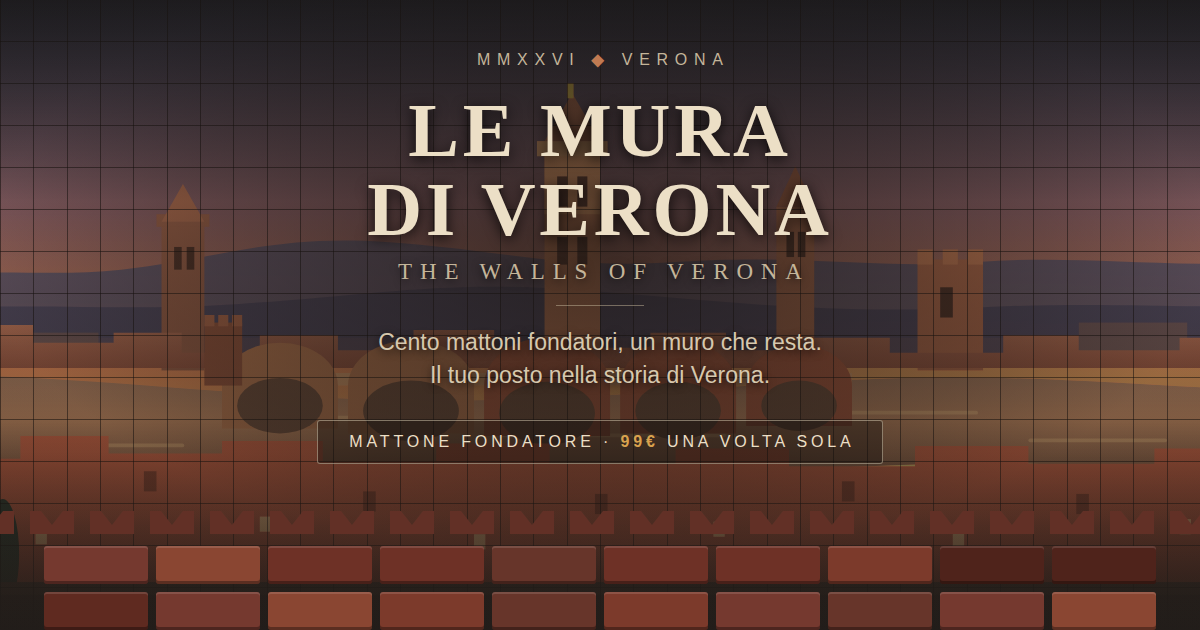
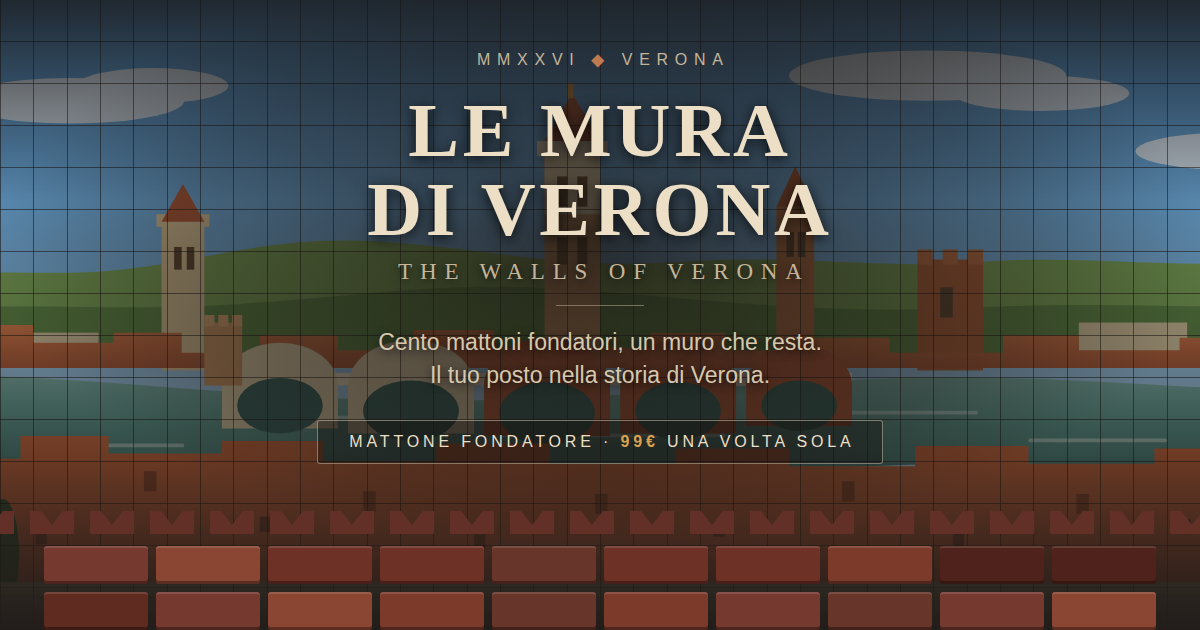
Presale: mosaico in colori diurni reali, risoluzione raddoppiata
Il panorama al tramonto rendeva il mosaico un impasto bruno in cui
Verona non si riconosceva. panorama.svg e' ridisegnato in colori veri:
cielo azzurro con nuvole, Torricelle verdi, campanili e Torre dei
Lamberti in pietra e cotto, l'Adige verde-acqua, Ponte Pietra con le
arcate chiare, tetti in cotto veronese.

- Campionamento portato da 36x15 (540 tessere) a 48x20 (960 tessere):
  la veduta si legge, 120 colori distinti contro i 33 di prima
- Filtro ridotto (la palette diurna non ha bisogno di spinta) e velo
  rinforzato al centro per la leggibilita' del testo
- og-cover.png rigenerata: ponte, torri e colline ora visibili
- README aggiornato

Verificata con Chromium: nessun errore JS, 960 tessere su desktop e
mobile, traduzioni e Fondatori intatti al cambio lingua.

Claude-Session: https://claude.ai/code/session_01KS1vJjt3JXrnw9YL9HbYTw

diff --git a/presale/index.html b/presale/index.html
@@ -79,15 +79,14 @@
   .hero{ position:relative; text-align:center; padding:0 0 34px; overflow:hidden; }
   .mosaico{ position:absolute; inset:0; z-index:0; overflow:hidden;
     background:#1a1512; pointer-events:none;
-    /* Il panorama campionato e' volutamente cupo: qui lo si riporta a
-       una luminosita' in cui Verona si riconosce sotto al velo. */
-    filter:brightness(1.5) saturate(1.2); }
+    /* Palette diurna: un filo di saturazione in piu' e basta. */
+    filter:brightness(1.04) saturate(1.12); }
   /* La griglia si comporta come un background "cover": mantiene il
      rapporto del panorama e viene ritagliata, invece di stirare i
      tasselli in rettangoli irriconoscibili sui telefoni. */
   .mosaico-grid{ position:absolute; top:50%; left:50%; transform:translate(-50%,-50%);
-    display:grid; gap:1px; width:100%; height:auto; aspect-ratio:36 / 15; }
-  @media (max-aspect-ratio: 36/15){
+    display:grid; gap:1px; width:100%; height:auto; aspect-ratio:48 / 20; }
+  @media (max-aspect-ratio: 48/20){
     .mosaico-grid{ width:auto; height:100%; }
   }
   .mosaico span{ display:block; opacity:0; animation:tessera .5s ease forwards;
@@ -98,8 +97,8 @@
   /* Velo: senza, il testo non si legge sopra il mosaico. */
   .velo{ position:absolute; inset:0; z-index:1; pointer-events:none;
     background:
-      radial-gradient(66% 56% at 50% 40%, rgba(24,19,16,.66), rgba(24,19,16,.34) 58%, rgba(24,19,16,.16) 82%),
-      linear-gradient(180deg, rgba(24,19,16,.82) 0%, rgba(24,19,16,.1) 30%, rgba(24,19,16,.34) 66%, var(--ink) 97%); }
+      radial-gradient(64% 54% at 50% 40%, rgba(24,19,16,.78), rgba(24,19,16,.44) 58%, rgba(24,19,16,.16) 84%),
+      linear-gradient(180deg, rgba(24,19,16,.72) 0%, rgba(24,19,16,.14) 30%, rgba(24,19,16,.38) 68%, var(--ink) 97%); }
   .hero-in{ position:relative; z-index:2; padding:34px 22px 0; }
   .credits{ position:absolute; z-index:2; right:10px; bottom:6px;
     font-size:9px; letter-spacing:.1em; color:rgba(236,223,198,.42); }
@@ -560,14 +559,14 @@ var MURATI = [
 
 /* ==================================================================
    IL MOSAICO — Verona vista da Castel San Pietro
-   La stringa qui sotto è il panorama campionato in 36x15 tasselli
+   La stringa qui sotto è il panorama campionato in 48x20 tasselli
    (vedi panorama.svg e tools/campiona-mosaico.mjs). Tinge il mosaico
    anche quando non c'è nemmeno una foto: la pagina non è mai vuota.
 
    Per mettere le foto vere dei quartieri, aggiungi righe a FOTO:
      { src:'foto/castelvecchio.jpg', x:6, y:8, w:3, h:2,
        credito:'Foto: Nome Cognome' }
-   x,y sono le coordinate del tassello in alto a sinistra (0-35, 0-14),
+   x,y sono le coordinate del tassello in alto a sinistra (0-47, 0-19),
    w,h quanti tasselli occupa. La foto viene virata sui toni del
    panorama, così il mosaico resta leggibile come veduta d'insieme.
 
@@ -575,8 +574,8 @@ var MURATI = [
    che ne permetta l'uso commerciale, e cita sempre l'autore. Una foto
    presa da internet costa molto più di quanto valga.
    ================================================================== */
-var MOSAICO_COLS = 36, MOSAICO_ROWS = 15;
[1 lines of base64/hex data omitted]
+var MOSAICO_COLS = 48, MOSAICO_ROWS = 20;
[1 lines of base64/hex data omitted]
 
 var FOTO = [
   // { src:'foto/ponte-pietra.jpg', x:14, y:8, w:4, h:3, credito:'Foto: Nome Cognome' },

diff --git a/presale/README.md b/presale/README.md
@@ -49,9 +49,11 @@ da sola nel selettore se aggiungi il pulsante corrispondente.
 ## Il mosaico
 
 Lo sfondo dell'intestazione è **Verona vista da Castel San Pietro**, scomposta
-in 540 tessere (36 × 15). Non serve nessuna foto perché funzioni: i colori
-sono campionati da `panorama.svg`, un'illustrazione disegnata apposta per
-questo progetto e quindi **libera da vincoli di licenza**.
+in 960 tessere (48 × 20). Non serve nessuna foto perché funzioni: i colori
+sono campionati da `panorama.svg`, un'illustrazione in colori diurni reali —
+cielo azzurro, Torricelle verdi, tetti in cotto, l'Adige verde-acqua, Ponte
+Pietra in pietra chiara — disegnata apposta per questo progetto e quindi
+**libera da vincoli di licenza**.
 
 Le tessere si compongono a onda dal centro, e la griglia si comporta come uno
 sfondo `cover`: mantiene le proporzioni del panorama e viene ritagliata,
@@ -66,7 +68,7 @@ var FOTO = [
 ];
 ```
 
-`x,y` è la tessera in alto a sinistra (0-35 e 0-14), `w,h` quante ne occupa.
+`x,y` è la tessera in alto a sinistra (0-47 e 0-19), `w,h` quante ne occupa.
 Le foto vengono virate sui toni del panorama, così il mosaico resta leggibile
 come veduta d'insieme anche quando sarà mezzo fotografico. I crediti compaiono
 da soli in basso a destra.
@@ -176,7 +178,7 @@ nessuno di essi.
 
 | Scenario | Esito |
 |---|---|
-| Italiano, 0 Fondatori | 540 tessere, 33 colori distinti, muro e contatori coerenti |
+| Italiano, 0 Fondatori | 960 tessere, 120 colori distinti, muro e contatori coerenti |
 | Passaggio a inglese | `<html lang>`, titolo, meta description, FAQ, note legali, etichette dei mattoni, testo WhatsApp: tutto tradotto |
 | `?lang=en` diretto | lingua inglese applicata all'apertura |
 | Scheda mattone in inglese | testi, offerta e pulsante tradotti; focus sul pulsante di chiusura |
